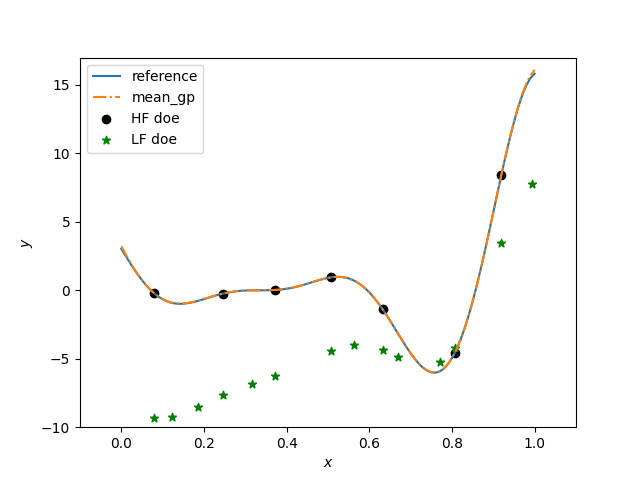
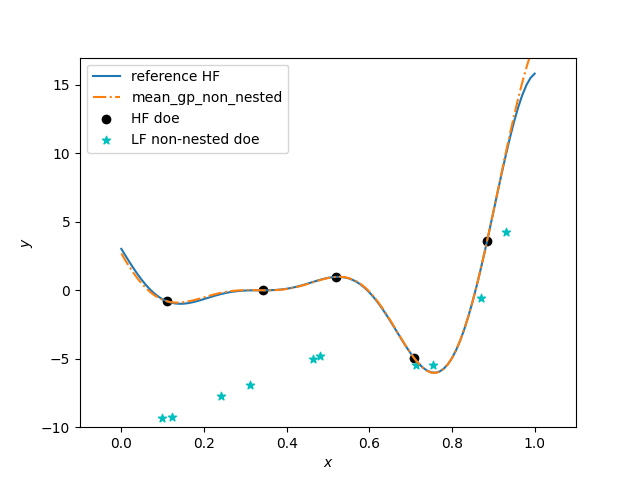
Update in example of the documentation for non-nested DoE

diff --git a/smt/applications/tests/test_mfck.py b/smt/applications/tests/test_mfck.py
@@ -27,7 +27,6 @@ from smt.utils.sm_test_case import SMTestCase
 
 print_output = False
 
-
 class TestMFCK(SMTestCase):
     def setUp(self):
         self.nt = 100
@@ -98,32 +97,44 @@ class TestMFCK(SMTestCase):
         # Problem set up
         xlimits = np.array([[0.0, 1.0]])
         xdoes = NestedLHS(nlevel=2, xlimits=xlimits, random_state=0)
-        xt_c, xt_e = xdoes(7)
+        xt_c, xt_e = xdoes(5)
+
+        # Delta value for the non-nested difference applied in the LF
+        delta= 0.05
+        rnd_state = 1
+
+        np.random.seed(rnd_state)
+        deltas = np.random.uniform(-delta, delta,np.shape(xt_c))
+        x_LF = xt_c + deltas
+        x_LF = np.clip(x_LF, xlimits[0][0], xlimits[0][1])
+
 
         # Evaluate the HF and LF functions
         yt_e = hf_function(xt_e)
-        yt_c = lf_function(xt_c)
+        yt_c = lf_function(x_LF)
 
-        sm = MFCK(theta0=xt_e.shape[1] * [1.0], corr="squar_exp")
+
+        sm_non_nested = MFCK(theta0=xt_e.shape[1] * [0.5], corr="squar_exp")
 
         # low-fidelity dataset names being integers from 0 to level-1
-        sm.set_training_values(xt_c, yt_c, name=0)
+        sm_non_nested.set_training_values(x_LF, yt_c, name=0)
         # high-fidelity dataset without name
-        sm.set_training_values(xt_e, yt_e)
+        sm_non_nested.set_training_values(xt_e, yt_e)
 
         # train the model
-        sm.train()
+        sm_non_nested.train()
 
         x = np.linspace(0, 1, 101, endpoint=True).reshape(-1, 1)
 
-        m, c = sm.predict_all_levels(x)
+        m_non_nested, c_non_nested = sm_non_nested.predict_all_levels(x)
 
         plt.figure()
 
-        plt.plot(x, hf_function(x), label="reference")
-        plt.plot(x, m[1], linestyle="-.", label="mean_gp")
+        plt.plot(x, hf_function(x), label="reference HF")
+        plt.plot(x, lf_function(x), label="reference LF")
+        plt.plot(x, m_non_nested[1], linestyle="-.", label="mean_gp_non_nested")
         plt.scatter(xt_e, yt_e, marker="o", color="k", label="HF doe")
-        plt.scatter(xt_c, yt_c, marker="*", color="g", label="LF doe")
+        plt.scatter(x_LF, yt_c, marker="*", color="c", label="LF non-nested doe")
 
         plt.legend(loc=0)
         plt.ylim(-10, 17)

diff --git a/doc/_src_docs/applications/mfck.rst b/doc/_src_docs/applications/mfck.rst
@@ -1,4 +1,4 @@
-.. _mfk-ref-label:
+.. _mfck-ref-label:
 
 Multi-Fidelity Co-Kriging (MFCK)
 ================================
@@ -13,7 +13,7 @@ where :math:`\rho(x)`
 is a scaling/correlation factor (constant for MFCK) and :math:`\delta(\cdot)` is a discrepancy function.
 
 The additive AR1 formulation was first introduced by Kennedy and O'Hagan [1]_.
-While MFK follows the recursive formulation of Le Gratiet [2]_. MFCK uses a block-wise matrix construction for :math:`n` levels of fidelity offering freedom in terms of data input assumptions.
+While MFK follows the recursive formulation of Le Gratiet [2]_. MFCK uses ab block-wise matrix construction for :math:`n` levels of fidelity offering freedom in terms of data input assumptions.
 
 References
 ----------
@@ -50,32 +50,43 @@ Usage
   # Problem set up
   xlimits = np.array([[0.0, 1.0]])
   xdoes = NestedLHS(nlevel=2, xlimits=xlimits, random_state=0)
-  xt_c, xt_e = xdoes(7)
+  xt_c, xt_e = xdoes(5)
+  
+  # Delta value for the non-nested difference applied in the LF
+  delta= 0.05
+  rnd_state = 1
+  
+  np.random.seed(rnd_state)
+  deltas = np.random.uniform(-delta, delta,np.shape(xt_c))
+  x_LF = xt_c + deltas
+  x_LF = np.clip(x_LF, xlimits[0][0], xlimits[0][1])
+  
   
   # Evaluate the HF and LF functions
   yt_e = hf_function(xt_e)
-  yt_c = lf_function(xt_c)
+  yt_c = lf_function(x_LF)
   
-  sm = MFCK(theta0=xt_e.shape[1] * [1.0], corr="squar_exp")
+  
+  sm_non_nested = MFCK(theta0=xt_e.shape[1] * [0.5], corr="squar_exp")
   
   # low-fidelity dataset names being integers from 0 to level-1
-  sm.set_training_values(xt_c, yt_c, name=0)
+  sm_non_nested.set_training_values(x_LF, yt_c, name=0)
   # high-fidelity dataset without name
-  sm.set_training_values(xt_e, yt_e)
+  sm_non_nested.set_training_values(xt_e, yt_e)
   
   # train the model
-  sm.train()
+  sm_non_nested.train()
   
   x = np.linspace(0, 1, 101, endpoint=True).reshape(-1, 1)
   
-  m, c = sm.predict_all_levels(x)
+  m_non_nested, c_non_nested = sm_non_nested.predict_all_levels(x)
   
   plt.figure()
   
-  plt.plot(x, hf_function(x), label="reference")
-  plt.plot(x, m[1], linestyle="-.", label="mean_gp")
+  plt.plot(x, hf_function(x), label="reference HF")
+  plt.plot(x, m_non_nested[1], linestyle="-.", label="mean_gp_non_nested")
   plt.scatter(xt_e, yt_e, marker="o", color="k", label="HF doe")
-  plt.scatter(xt_c, yt_c, marker="*", color="g", label="LF doe")
+  plt.scatter(x_LF, yt_c, marker="*", color="c", label="LF non-nested doe")
   
   plt.legend(loc=0)
   plt.ylim(-10, 17)
